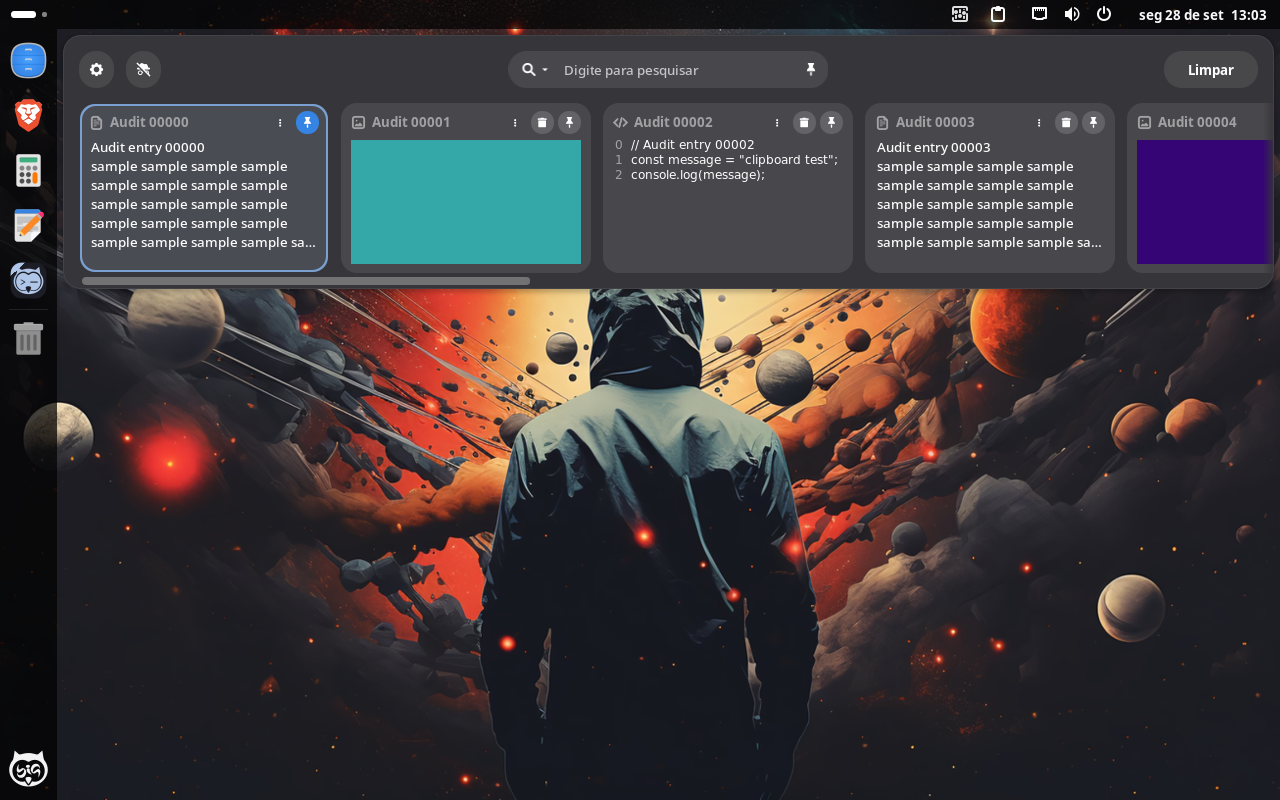
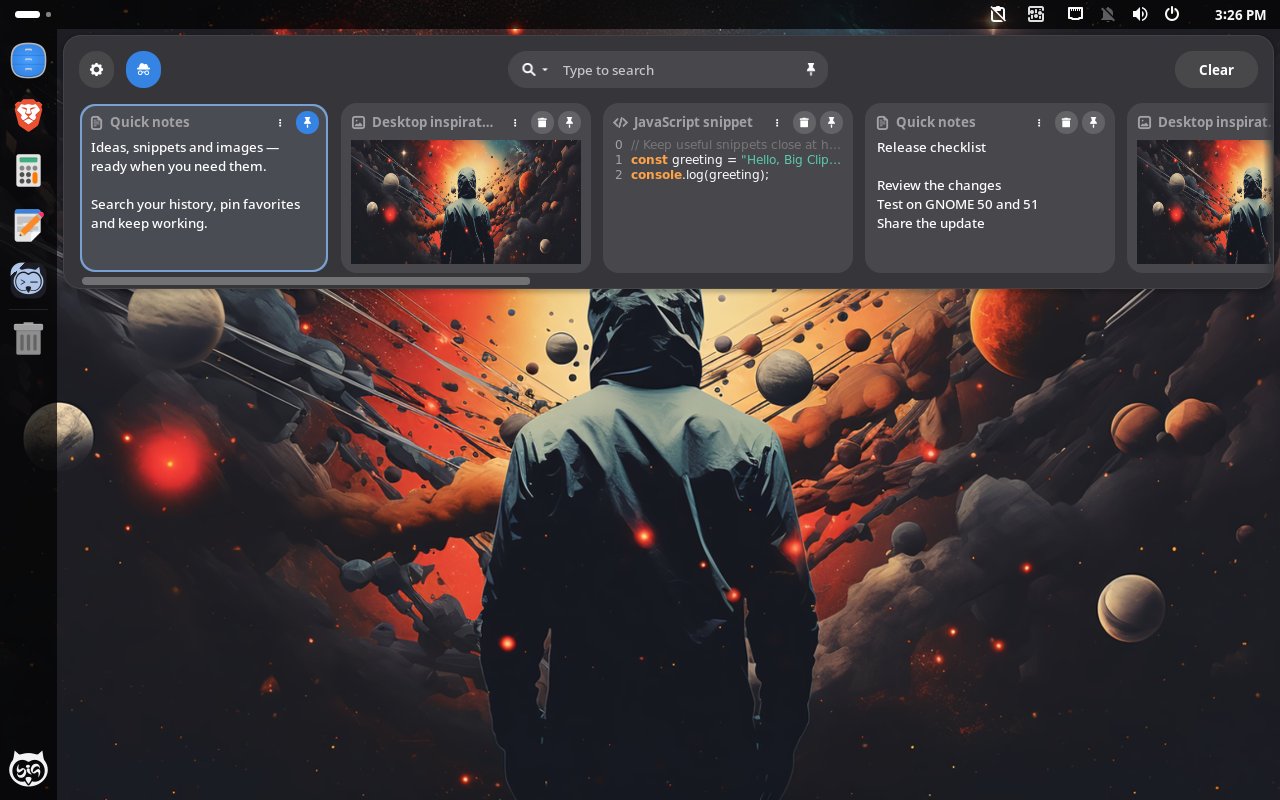
docs: refresh English screenshots and untrack internal branding notes

diff --git a/README.md b/README.md
@@ -6,13 +6,13 @@
 
 This repository contains the extension source, BigCommunity modifications and distribution packaging. The original authors retain credit for Copyous; the changes below focus on large clipboard histories, GNOME compatibility and layout switching.
 
-GNOME 50.4, horizontal history with synthetic sample entries:
+G-Unity on GNOME 50.4, with horizontal clipboard history and English sample entries:
 
-![Big Clipboard on GNOME 50](resources/images/big-clipboard-gnome50.png)
+![Big Clipboard in English on G-Unity, GNOME 50.4](resources/images/big-clipboard-gnome50.png)
 
-GNOME 51.0, vertical history and a Big Clipboard notification:
+Hybrid on GNOME 51.0, with vertical clipboard history and English sample entries:
 
-![Big Clipboard on GNOME 51](resources/images/big-clipboard-gnome51.png)
+![Big Clipboard in English on Hybrid, GNOME 51.0](resources/images/big-clipboard-gnome51.png)
 
 ## BigCommunity changes
 
